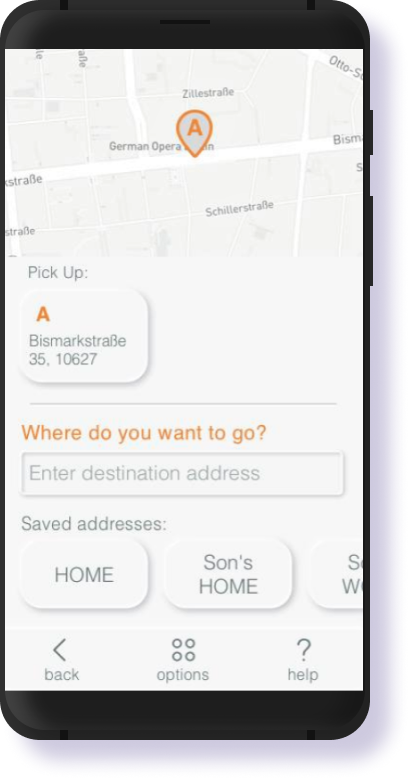
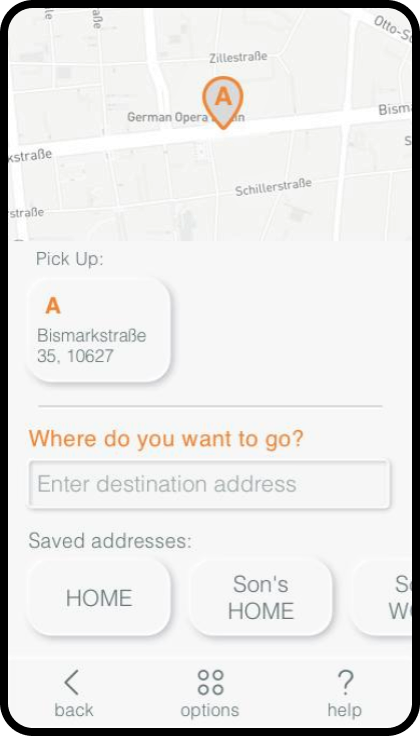
feat: new project images

diff --git a/index.html b/index.html
@@ -209,25 +209,25 @@
             <button onclick="lastProject('5','5')"><img src="media/next.png" class="nextProject"></button>
             <div class="projectTitle">Hologram</div>
             <div id="projectText51">
-              <img src="media/MainScreen.jpg" >
+              <img src="media/MainScreen.png" >
               </br>
               <button onclick="firstpage('5','5')"><img src="media/before.png" class="beforePage"></button>
               <button onclick="changepage('5','1')"><img src="media/next.png" class="nextPage"></button>
             </div>
             <div id="projectText52">
-              <img src="media/LoadGame.jpg">
+              <img src="media/LoadGame.png">
               </br>
               <button onclick="beforepage('5','2')"><img src="media/before.png" class="beforePage"></button>
               <button onclick="changepage('5','2')"><img src="media/next.png" class="nextPage"></button>
             </div>
             <div id="projectText53">
-              <img src="media/SettingsAudio.jpg">
+              <img src="media/SettingsAudio.png">
               </br>
               <button onclick="beforepage('5','3')"><img src="media/before.png" class="beforePage"></button>
               <button onclick="changepage('5','3')"><img src="media/next.png" class="nextPage"></button>
             </div>
             <div id="projectText54">
-              <img src="media/PauseMenu.jpg">
+              <img src="media/PauseMenu.png">
               </br>
               <button onclick="beforepage('5','4')"><img src="media/before.png" class="beforePage"></button>
               <button onclick="changepage('5','4')"><img src="media/next.png" class="nextPage"></button>
